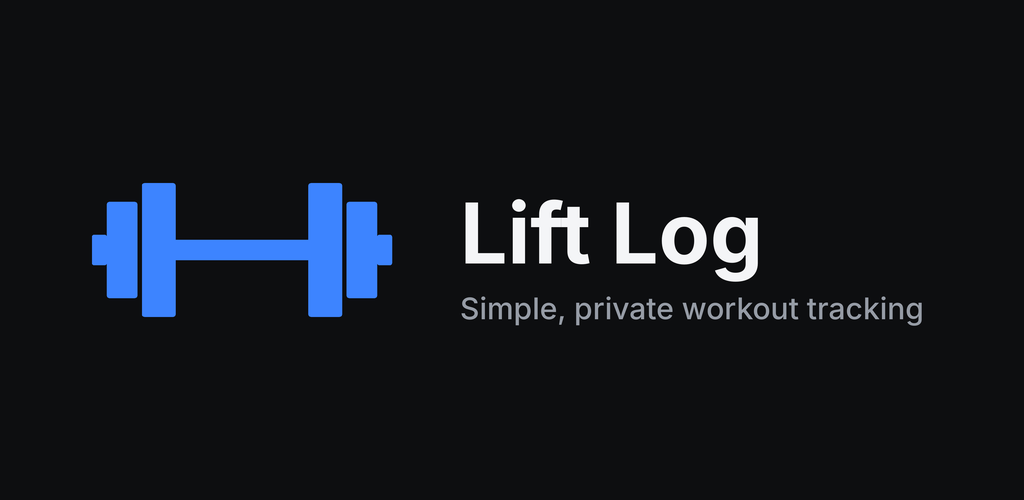
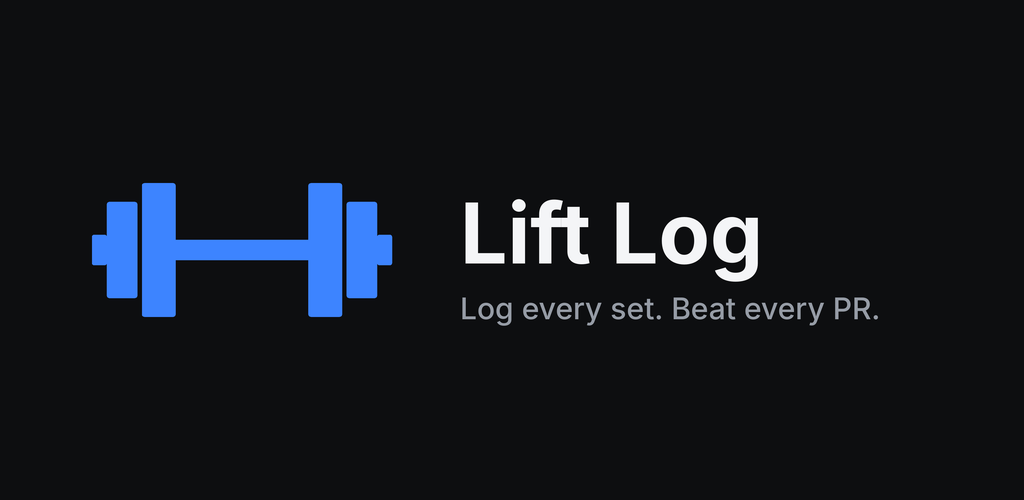
Store listing: drop the private/no-social positioning; add rendered screenshots
Claude-Session: https://claude.ai/code/session_01H2itePRiUVWt31N9q6pqFZ

Changed region(s): [[0.4375, 0.57, 0.9062, 0.66]]

diff --git a/docs/store/make_feature.py b/docs/store/make_feature.py
@@ -19,6 +19,6 @@ title = ImageFont.truetype(F + "Inter-Bold.otf", 84 * SS)
 sub = ImageFont.truetype(F + "Inter-Medium.otf", 30 * SS)
 tx = 460
 d.text((tx * SS, 182 * SS), "Lift Log", font=title, fill=INK)
-d.text((tx * SS, 290 * SS), "Simple, private workout tracking", font=sub, fill=MUTED)
+d.text((tx * SS, 290 * SS), "Log every set. Beat every PR.", font=sub, fill=MUTED)
 im.resize((W, H), Image.LANCZOS).save("feature-1024x500.png")
 print("saved")

diff --git a/docs/store/listing.md b/docs/store/listing.md
@@ -4,10 +4,10 @@
 Lift Log
 
 ## Short description (max 80)
-Log workouts, track progress and PRs. Private and offline, no account needed.
+Log every set, track your progress and beat your personal records.
 
 ## Full description (max 4000)
-Lift Log is a simple, fast workout tracker for the gym. Log every set, see your progress and beat your personal records, without an account, ads or anything social.
+Lift Log is a simple, fast workout tracker for the gym. Log every set, see your progress and beat your personal records.
 
 LOG WORKOUTS QUICKLY
 • Start an empty workout or one of your routines
@@ -38,5 +38,5 @@ TOOLS
 SWITCHING FROM HEVY?
 Import your Hevy workout and measurement exports (CSV) and keep your whole history, PRs and charts. A step-by-step guide in Settings walks you through it.
 
-PRIVATE BY DESIGN
-Everything stays on your phone. No account, no tracking, no ads. Export a full backup or CSV whenever you like.
+NO ACCOUNT NEEDED
+Start logging straight away, even offline. Export a full backup or CSV whenever you like.
